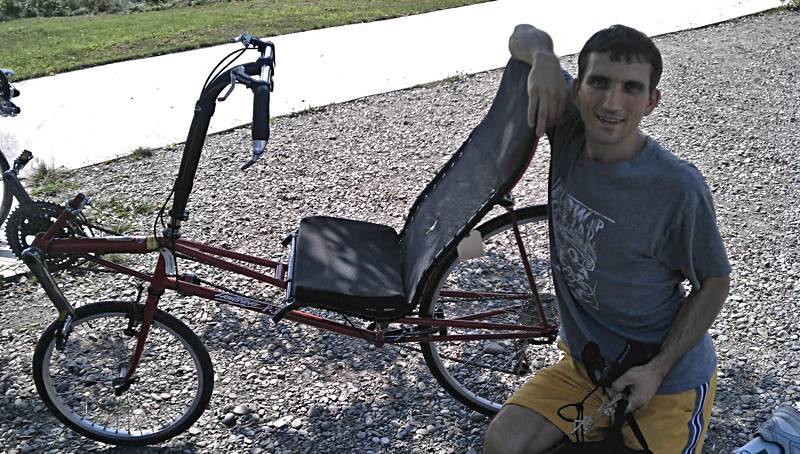
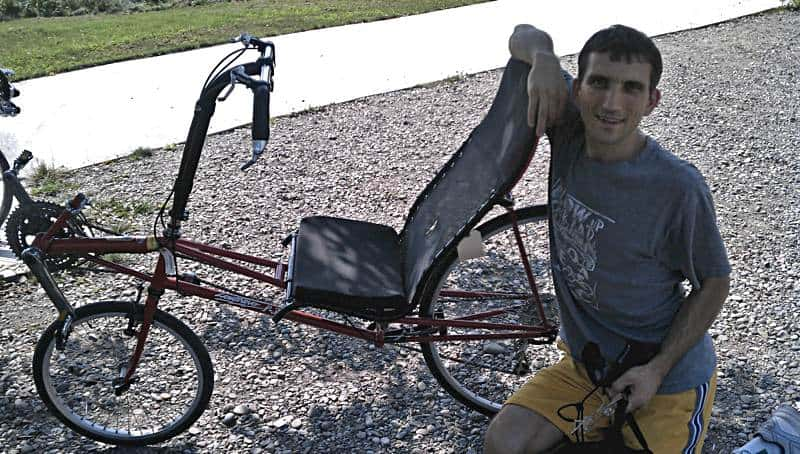
New riders
plus some image optimization

diff --git a/riders/marius-sullwald/index.html b/riders/marius-sullwald/index.html
@@ -1,0 +1,84 @@
+<!DOCTYPE html>
+<html lang="en-us">
+<head>
+	<meta charset="utf-8">
+	<title>Riders: Marius Sullwald (Carbon Cranks)</title>
+
+<!-- #bbinclude "metatags.incl" -->
+	<meta http-equiv="X-UA-Compatible" content="IE=edge">
+	<meta name="viewport" content="width=device-width, initial-scale=1">
+	<link href="https://maxcdn.bootstrapcdn.com/bootstrap/3.3.6/css/bootstrap.min.css" rel="stylesheet">
+	<link href="https://fonts.googleapis.com/css?family=Archivo+Narrow:700,700italic" rel="stylesheet" type="text/css">
+	<link rel="stylesheet" href="/css/lcd.css" type="text/css">
+<!-- HTML5 shim and Respond.js for IE8 support of HTML5 elements and media queries -->
+<!-- WARNING: Respond.js doesn't work if you view the page via file:// -->
+<!--[if lt IE 9]>
+  <script src="https://oss.maxcdn.com/html5shiv/3.7.2/html5shiv.min.js"></script>
+  <script src="https://oss.maxcdn.com/respond/1.4.2/respond.min.js"></script>
+<![endif]-->
+<!-- end metatags.incl -->
+<!-- end bbinclude -->
+</head>
+<body>
+<!-- #bbinclude "content-container.incl" -->
+<div class="container-fluid">
+	<div class="row">
+		<article class="col-sm-10 col-sm-push-2">
+<!-- end content-container.incl -->
+<!-- end bbinclude -->
+<!-- #bbinclude "riders.incl" -->
+			<p class="lead">
+				Lightning riders
+			</p>
+
+<!-- end riders.incl -->
+<!-- end bbinclude -->
+			<h1>
+				Marius Sullwald
+			</h1>
+			<p>
+				Stock lengths for Lightning Carbon Cranks go up to 190 mm, but check out these custom 200 mm cranks we made for a customer in South Africa.
+			</p>
+			<figure>
+				<img src="/riders/marius-sullwald/200mm-cranks.jpg" width="978" height="978" alt="200mm-cranks" class="img-thumbnail">
+			</figure>
+
+<!-- #bbinclude "sidebar.incl" -->
+		</article>
+		<div class="col-sm-2 col-sm-pull-10">
+			<nav class="inside"> <a href="/index.html" title="Return to the home page">Home</a> <a href="/introduction.html" title="Introduction" id="intro">Introduction</a> <a href="/recumbents.html" title="Bicycles" id="recumbents">Recumbents</a> <a href="/handcycles/index.html" title="Hand cycles" id="handcycles">HandCycles</a>
+<!--<a href="/e-lightning/index.html" title="Bicycles">E-Lightning</a>-->
+			<a href="/cranks/index.html" title="cranksets" id="cranksets">Cranksets</a> <a href="/cranks/crank-nav.html" title="crank parts" id="crankparts">Crank parts</a> <a href="/accessories/index.html" title="Accessories" id="accessories">Accessories</a> <a href="/pricelist.html" title="Prices" id="prices">Price list</a> <a href="/dealers/index.html" title="Dealers" id="dealers">Dealers</a> <a href="/howtobuy.html" title="How to buy" id="buying">How to buy</a> <a href="/media/index.html" title="Media" id="media">Media</a> <a href="/riders/racing.html" title="Racing" id="racing">Racing</a> <a href="/gallery/index.html" title="Photo gallery" id="photos">Photos</a> <a href="/videos/index.html" title="Videos" id="videos">Videos</a> <a href="/faq.html" title="Frequently asked questions" id="faq">F.A.Q.</a> <a href="/tips/index.html" title="Tech Tips" id="tips">Tech Tips</a>
+<!--<a href="http://www.lightningriders.com/" title="Lightning Riders">Fan Club</a> <a href="http://www.lightningriders.com/forum/" title="Lightning Riders forum">Forum</a>-->
+			<a href="/company.html" title="About Lightning Cycle Dynamics" id="about">About us</a> <a href="/contact.html" title="Contact Lightning Cycle Dynamics" id="contact">Contact us</a> <a href="/search.html" title="Search Lightning Cycle Dynamics" id="search">Search</a> </nav>
+		</div>
+
+<!-- /.col-sm-2 col-sm-pull-10 -->
+	</div>
+<!-- /.row -->
+<!-- end sidebar.incl -->
+<!-- end bbinclude -->
+<!-- #bbinclude "address.incl" -->
+	<div class="row">
+		<div class="col-sm-12">
+			<footer class="address">
+				<hr>
+				<p class="text-center">
+					Copyright &copy; Lightning Cycle Dynamics, 1977&ndash;2016
+				</p>
+			</footer>
+		</div>
+
+<!-- /.col-sm-12 -->
+	</div>
+<!-- /.row -->
+</div>
+<!-- /.container-fluid -->
+<!-- end address.incl -->
+<!-- end bbinclude -->
+<!-- #bbinclude "analytics.incl" -->
+<script type="text/javascript">var _gaq = _gaq || []; _gaq.push(['_setAccount', 'UA-37984504-1']); _gaq.push(['_trackPageview']); (function() { var ga = document.createElement('script'); ga.type = 'text/javascript'; ga.async = true; ga.src = ('https:' == document.location.protocol ? 'https://ssl' : 'http://www') + '.google-analytics.com/ga.js'; var s = document.getElementsByTagName('script')[0]; s.parentNode.insertBefore(ga, s); })();</script>
+<!-- end analytics.incl -->
+<!-- end bbinclude -->
+</body>
+</html>

diff --git a/riders/charles-dibella/index.html b/riders/charles-dibella/index.html
@@ -1,0 +1,81 @@
+<!DOCTYPE html>
+<html lang="en-us">
+<head>
+	<meta charset="utf-8">
+	<title>Riders: Charles Dibella (Stealth, touring)</title>
+
+<!-- #bbinclude "metatags.incl" -->
+	<meta http-equiv="X-UA-Compatible" content="IE=edge">
+	<meta name="viewport" content="width=device-width, initial-scale=1">
+	<link href="https://maxcdn.bootstrapcdn.com/bootstrap/3.3.6/css/bootstrap.min.css" rel="stylesheet">
+	<link href="https://fonts.googleapis.com/css?family=Archivo+Narrow:700,700italic" rel="stylesheet" type="text/css">
+	<link rel="stylesheet" href="/css/lcd.css" type="text/css">
+<!-- HTML5 shim and Respond.js for IE8 support of HTML5 elements and media queries -->
+<!-- WARNING: Respond.js doesn't work if you view the page via file:// -->
+<!--[if lt IE 9]>
+  <script src="https://oss.maxcdn.com/html5shiv/3.7.2/html5shiv.min.js"></script>
+  <script src="https://oss.maxcdn.com/respond/1.4.2/respond.min.js"></script>
+<![endif]-->
+<!-- end metatags.incl -->
+<!-- end bbinclude -->
+</head>
+<body>
+<!-- #bbinclude "content-container.incl" -->
+<div class="container-fluid">
+	<div class="row">
+		<article class="col-sm-10 col-sm-push-2">
+<!-- end content-container.incl -->
+<!-- end bbinclude -->
+<!-- #bbinclude "riders.incl" -->
+			<p class="lead">
+				Lightning riders
+			</p>
+
+<!-- end riders.incl -->
+<!-- end bbinclude -->
+			<h1>
+				Charles Dibella
+			</h1>
+			<figure>
+				<img src="/riders/charles-dibella/touring-stealth.jpg" width="640" height="480" alt="touring-stealth" class="img-thumbnail">
+			</figure>
+
+<!-- #bbinclude "sidebar.incl" -->
+		</article>
+		<div class="col-sm-2 col-sm-pull-10">
+			<nav class="inside"> <a href="/index.html" title="Return to the home page">Home</a> <a href="/introduction.html" title="Introduction" id="intro">Introduction</a> <a href="/recumbents.html" title="Bicycles" id="recumbents">Recumbents</a> <a href="/handcycles/index.html" title="Hand cycles" id="handcycles">HandCycles</a>
+<!--<a href="/e-lightning/index.html" title="Bicycles">E-Lightning</a>-->
+			<a href="/cranks/index.html" title="cranksets" id="cranksets">Cranksets</a> <a href="/cranks/crank-nav.html" title="crank parts" id="crankparts">Crank parts</a> <a href="/accessories/index.html" title="Accessories" id="accessories">Accessories</a> <a href="/pricelist.html" title="Prices" id="prices">Price list</a> <a href="/dealers/index.html" title="Dealers" id="dealers">Dealers</a> <a href="/howtobuy.html" title="How to buy" id="buying">How to buy</a> <a href="/media/index.html" title="Media" id="media">Media</a> <a href="/riders/racing.html" title="Racing" id="racing">Racing</a> <a href="/gallery/index.html" title="Photo gallery" id="photos">Photos</a> <a href="/videos/index.html" title="Videos" id="videos">Videos</a> <a href="/faq.html" title="Frequently asked questions" id="faq">F.A.Q.</a> <a href="/tips/index.html" title="Tech Tips" id="tips">Tech Tips</a>
+<!--<a href="http://www.lightningriders.com/" title="Lightning Riders">Fan Club</a> <a href="http://www.lightningriders.com/forum/" title="Lightning Riders forum">Forum</a>-->
+			<a href="/company.html" title="About Lightning Cycle Dynamics" id="about">About us</a> <a href="/contact.html" title="Contact Lightning Cycle Dynamics" id="contact">Contact us</a> <a href="/search.html" title="Search Lightning Cycle Dynamics" id="search">Search</a> </nav>
+		</div>
+
+<!-- /.col-sm-2 col-sm-pull-10 -->
+	</div>
+<!-- /.row -->
+<!-- end sidebar.incl -->
+<!-- end bbinclude -->
+<!-- #bbinclude "address.incl" -->
+	<div class="row">
+		<div class="col-sm-12">
+			<footer class="address">
+				<hr>
+				<p class="text-center">
+					Copyright &copy; Lightning Cycle Dynamics, 1977&ndash;2016
+				</p>
+			</footer>
+		</div>
+
+<!-- /.col-sm-12 -->
+	</div>
+<!-- /.row -->
+</div>
+<!-- /.container-fluid -->
+<!-- end address.incl -->
+<!-- end bbinclude -->
+<!-- #bbinclude "analytics.incl" -->
+<script type="text/javascript">var _gaq = _gaq || []; _gaq.push(['_setAccount', 'UA-37984504-1']); _gaq.push(['_trackPageview']); (function() { var ga = document.createElement('script'); ga.type = 'text/javascript'; ga.async = true; ga.src = ('https:' == document.location.protocol ? 'https://ssl' : 'http://www') + '.google-analytics.com/ga.js'; var s = document.getElementsByTagName('script')[0]; s.parentNode.insertBefore(ga, s); })();</script>
+<!-- end analytics.incl -->
+<!-- end bbinclude -->
+</body>
+</html>

diff --git a/riders/susan-reed/index.html b/riders/susan-reed/index.html
@@ -1,0 +1,81 @@
+<!DOCTYPE html>
+<html lang="en-us">
+<head>
+	<meta charset="utf-8">
+	<title>Riders: Susan Reed (Voyager)</title>
+
+<!-- #bbinclude "metatags.incl" -->
+	<meta http-equiv="X-UA-Compatible" content="IE=edge">
+	<meta name="viewport" content="width=device-width, initial-scale=1">
+	<link href="https://maxcdn.bootstrapcdn.com/bootstrap/3.3.6/css/bootstrap.min.css" rel="stylesheet">
+	<link href="https://fonts.googleapis.com/css?family=Archivo+Narrow:700,700italic" rel="stylesheet" type="text/css">
+	<link rel="stylesheet" href="/css/lcd.css" type="text/css">
+<!-- HTML5 shim and Respond.js for IE8 support of HTML5 elements and media queries -->
+<!-- WARNING: Respond.js doesn't work if you view the page via file:// -->
+<!--[if lt IE 9]>
+  <script src="https://oss.maxcdn.com/html5shiv/3.7.2/html5shiv.min.js"></script>
+  <script src="https://oss.maxcdn.com/respond/1.4.2/respond.min.js"></script>
+<![endif]-->
+<!-- end metatags.incl -->
+<!-- end bbinclude -->
+</head>
+<body>
+<!-- #bbinclude "content-container.incl" -->
+<div class="container-fluid">
+	<div class="row">
+		<article class="col-sm-10 col-sm-push-2">
+<!-- end content-container.incl -->
+<!-- end bbinclude -->
+<!-- #bbinclude "riders.incl" -->
+			<p class="lead">
+				Lightning riders
+			</p>
+
+<!-- end riders.incl -->
+<!-- end bbinclude -->
+			<h1>
+				Susan Reed
+			</h1>
+			<figure>
+				<img src="/riders/susan-reed/voyager.jpg" width="600" height="400" alt="Susan Reed aboard her Lightning P-38 Voyager" class="img-thumbnail">
+			</figure>
+
+<!-- #bbinclude "sidebar.incl" -->
+		</article>
+		<div class="col-sm-2 col-sm-pull-10">
+			<nav class="inside"> <a href="/index.html" title="Return to the home page">Home</a> <a href="/introduction.html" title="Introduction" id="intro">Introduction</a> <a href="/recumbents.html" title="Bicycles" id="recumbents">Recumbents</a> <a href="/handcycles/index.html" title="Hand cycles" id="handcycles">HandCycles</a>
+<!--<a href="/e-lightning/index.html" title="Bicycles">E-Lightning</a>-->
+			<a href="/cranks/index.html" title="cranksets" id="cranksets">Cranksets</a> <a href="/cranks/crank-nav.html" title="crank parts" id="crankparts">Crank parts</a> <a href="/accessories/index.html" title="Accessories" id="accessories">Accessories</a> <a href="/pricelist.html" title="Prices" id="prices">Price list</a> <a href="/dealers/index.html" title="Dealers" id="dealers">Dealers</a> <a href="/howtobuy.html" title="How to buy" id="buying">How to buy</a> <a href="/media/index.html" title="Media" id="media">Media</a> <a href="/riders/racing.html" title="Racing" id="racing">Racing</a> <a href="/gallery/index.html" title="Photo gallery" id="photos">Photos</a> <a href="/videos/index.html" title="Videos" id="videos">Videos</a> <a href="/faq.html" title="Frequently asked questions" id="faq">F.A.Q.</a> <a href="/tips/index.html" title="Tech Tips" id="tips">Tech Tips</a>
+<!--<a href="http://www.lightningriders.com/" title="Lightning Riders">Fan Club</a> <a href="http://www.lightningriders.com/forum/" title="Lightning Riders forum">Forum</a>-->
+			<a href="/company.html" title="About Lightning Cycle Dynamics" id="about">About us</a> <a href="/contact.html" title="Contact Lightning Cycle Dynamics" id="contact">Contact us</a> <a href="/search.html" title="Search Lightning Cycle Dynamics" id="search">Search</a> </nav>
+		</div>
+
+<!-- /.col-sm-2 col-sm-pull-10 -->
+	</div>
+<!-- /.row -->
+<!-- end sidebar.incl -->
+<!-- end bbinclude -->
+<!-- #bbinclude "address.incl" -->
+	<div class="row">
+		<div class="col-sm-12">
+			<footer class="address">
+				<hr>
+				<p class="text-center">
+					Copyright &copy; Lightning Cycle Dynamics, 1977&ndash;2016
+				</p>
+			</footer>
+		</div>
+
+<!-- /.col-sm-12 -->
+	</div>
+<!-- /.row -->
+</div>
+<!-- /.container-fluid -->
+<!-- end address.incl -->
+<!-- end bbinclude -->
+<!-- #bbinclude "analytics.incl" -->
+<script type="text/javascript">var _gaq = _gaq || []; _gaq.push(['_setAccount', 'UA-37984504-1']); _gaq.push(['_trackPageview']); (function() { var ga = document.createElement('script'); ga.type = 'text/javascript'; ga.async = true; ga.src = ('https:' == document.location.protocol ? 'https://ssl' : 'http://www') + '.google-analytics.com/ga.js'; var s = document.getElementsByTagName('script')[0]; s.parentNode.insertBefore(ga, s); })();</script>
+<!-- end analytics.incl -->
+<!-- end bbinclude -->
+</body>
+</html>

diff --git a/riders/larry-guevara/index.html b/riders/larry-guevara/index.html
@@ -1,0 +1,81 @@
+<!DOCTYPE html>
+<html lang="en-us">
+<head>
+	<meta charset="utf-8">
+	<title>Riders: Larry Guevara (Phantom)</title>
+
+<!-- #bbinclude "metatags.incl" -->
+	<meta http-equiv="X-UA-Compatible" content="IE=edge">
+	<meta name="viewport" content="width=device-width, initial-scale=1">
+	<link href="https://maxcdn.bootstrapcdn.com/bootstrap/3.3.6/css/bootstrap.min.css" rel="stylesheet">
+	<link href="https://fonts.googleapis.com/css?family=Archivo+Narrow:700,700italic" rel="stylesheet" type="text/css">
+	<link rel="stylesheet" href="/css/lcd.css" type="text/css">
+<!-- HTML5 shim and Respond.js for IE8 support of HTML5 elements and media queries -->
+<!-- WARNING: Respond.js doesn't work if you view the page via file:// -->
+<!--[if lt IE 9]>
+  <script src="https://oss.maxcdn.com/html5shiv/3.7.2/html5shiv.min.js"></script>
+  <script src="https://oss.maxcdn.com/respond/1.4.2/respond.min.js"></script>
+<![endif]-->
+<!-- end metatags.incl -->
+<!-- end bbinclude -->
+</head>
+<body>
+<!-- #bbinclude "content-container.incl" -->
+<div class="container-fluid">
+	<div class="row">
+		<article class="col-sm-10 col-sm-push-2">
+<!-- end content-container.incl -->
+<!-- end bbinclude -->
+<!-- #bbinclude "riders.incl" -->
+			<p class="lead">
+				Lightning riders
+			</p>
+
+<!-- end riders.incl -->
+<!-- end bbinclude -->
+			<h1>
+				Larry Guevara
+			</h1>
+			<figure>
+				<img src="/riders/larry-guevara/Blue-Angel.jpg" width="1000" height="722" alt="Blue-Angel" class="img-thumbnail">
+			</figure>
+
+<!-- #bbinclude "sidebar.incl" -->
+		</article>
+		<div class="col-sm-2 col-sm-pull-10">
+			<nav class="inside"> <a href="/index.html" title="Return to the home page">Home</a> <a href="/introduction.html" title="Introduction" id="intro">Introduction</a> <a href="/recumbents.html" title="Bicycles" id="recumbents">Recumbents</a> <a href="/handcycles/index.html" title="Hand cycles" id="handcycles">HandCycles</a>
+<!--<a href="/e-lightning/index.html" title="Bicycles">E-Lightning</a>-->
+			<a href="/cranks/index.html" title="cranksets" id="cranksets">Cranksets</a> <a href="/cranks/crank-nav.html" title="crank parts" id="crankparts">Crank parts</a> <a href="/accessories/index.html" title="Accessories" id="accessories">Accessories</a> <a href="/pricelist.html" title="Prices" id="prices">Price list</a> <a href="/dealers/index.html" title="Dealers" id="dealers">Dealers</a> <a href="/howtobuy.html" title="How to buy" id="buying">How to buy</a> <a href="/media/index.html" title="Media" id="media">Media</a> <a href="/riders/racing.html" title="Racing" id="racing">Racing</a> <a href="/gallery/index.html" title="Photo gallery" id="photos">Photos</a> <a href="/videos/index.html" title="Videos" id="videos">Videos</a> <a href="/faq.html" title="Frequently asked questions" id="faq">F.A.Q.</a> <a href="/tips/index.html" title="Tech Tips" id="tips">Tech Tips</a>
+<!--<a href="http://www.lightningriders.com/" title="Lightning Riders">Fan Club</a> <a href="http://www.lightningriders.com/forum/" title="Lightning Riders forum">Forum</a>-->
+			<a href="/company.html" title="About Lightning Cycle Dynamics" id="about">About us</a> <a href="/contact.html" title="Contact Lightning Cycle Dynamics" id="contact">Contact us</a> <a href="/search.html" title="Search Lightning Cycle Dynamics" id="search">Search</a> </nav>
+		</div>
+
+<!-- /.col-sm-2 col-sm-pull-10 -->
+	</div>
+<!-- /.row -->
+<!-- end sidebar.incl -->
+<!-- end bbinclude -->
+<!-- #bbinclude "address.incl" -->
+	<div class="row">
+		<div class="col-sm-12">
+			<footer class="address">
+				<hr>
+				<p class="text-center">
+					Copyright &copy; Lightning Cycle Dynamics, 1977&ndash;2016
+				</p>
+			</footer>
+		</div>
+
+<!-- /.col-sm-12 -->
+	</div>
+<!-- /.row -->
+</div>
+<!-- /.container-fluid -->
+<!-- end address.incl -->
+<!-- end bbinclude -->
+<!-- #bbinclude "analytics.incl" -->
+<script type="text/javascript">var _gaq = _gaq || []; _gaq.push(['_setAccount', 'UA-37984504-1']); _gaq.push(['_trackPageview']); (function() { var ga = document.createElement('script'); ga.type = 'text/javascript'; ga.async = true; ga.src = ('https:' == document.location.protocol ? 'https://ssl' : 'http://www') + '.google-analytics.com/ga.js'; var s = document.getElementsByTagName('script')[0]; s.parentNode.insertBefore(ga, s); })();</script>
+<!-- end analytics.incl -->
+<!-- end bbinclude -->
+</body>
+</html>

diff --git a/riders/index.html b/riders/index.html
@@ -70,6 +70,7 @@
 				<li><a href="/riders/lee-emmett/index.html">Lee Emmett (Phantom)</a></li>
 				<li><a href="/riders/len-zawodniak/index.html">Len Zawodniak (F-40, F-90)</a></li>
 				<li><a href="/riders/lynn-miller/index.html">Lynn Miller (F-90)</a></li>
+				<li><a href="/riders/marius-sullwald/index.html">Marius Sullwald (Carbon Cranks)</a></li>
 				<li><a href="/riders/mark-textor/index.html">Mark Textor (P-38)</a></li>
 				<li><a href="/riders/martin-krieg/index.html">Martin Krieg (P-38)</a></li>
 				<li><a href="/riders/michael-kapala/index.html">Michael Kapala (Thunderbolt, R-84)</a></li>
@@ -91,6 +92,7 @@
 				<li><a href="/riders/stephen-purcell/index.html">Stephen Purcell (F-40, touring)</a></li>
 				<li><a href="/riders/steve-friedlander/index.html">Steve Friedlander (F-40)</a></li>
 				<li><a href="/riders/sue-yocom/index.html">Sue Yocom (P-38)</a></li>
+				<li><a href="/riders/susan-reed/index.html">Susan Reed (Voyager)</a></li>
 				<li><a href="/riders/timothy-chance/index.php">Timothy Chance (Voyager)</a></li>
 				<li><a href="/riders/tyger-johnson/index.html">Tyger Johnson (F-40, racing)</a></li>
 				<li><a href="/riders/wally-kiehler/index.html">Wally Kiehler (F-40, R-84, racing)</a></li>
